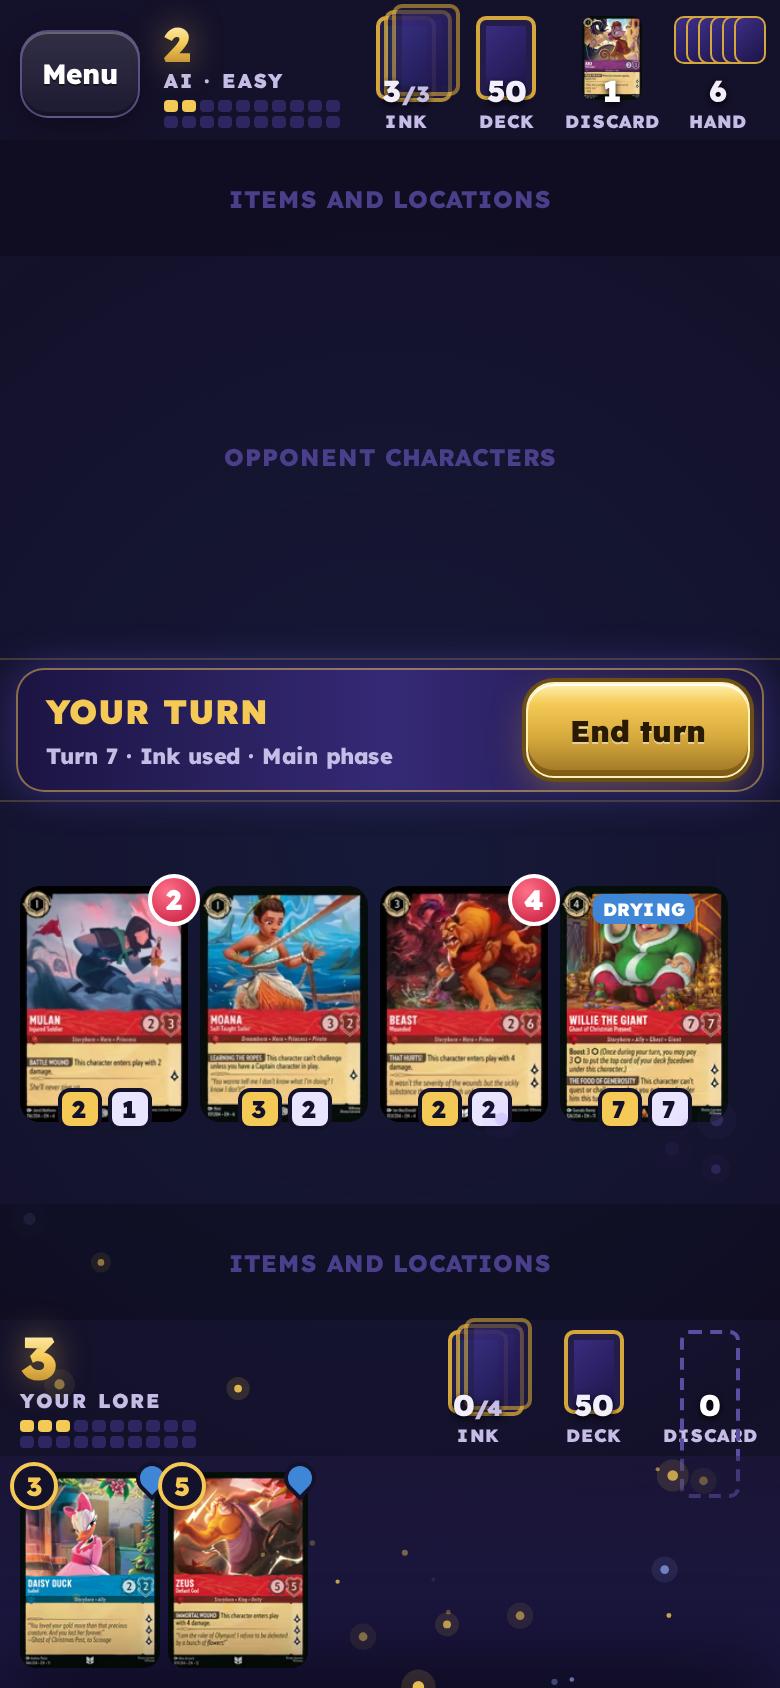
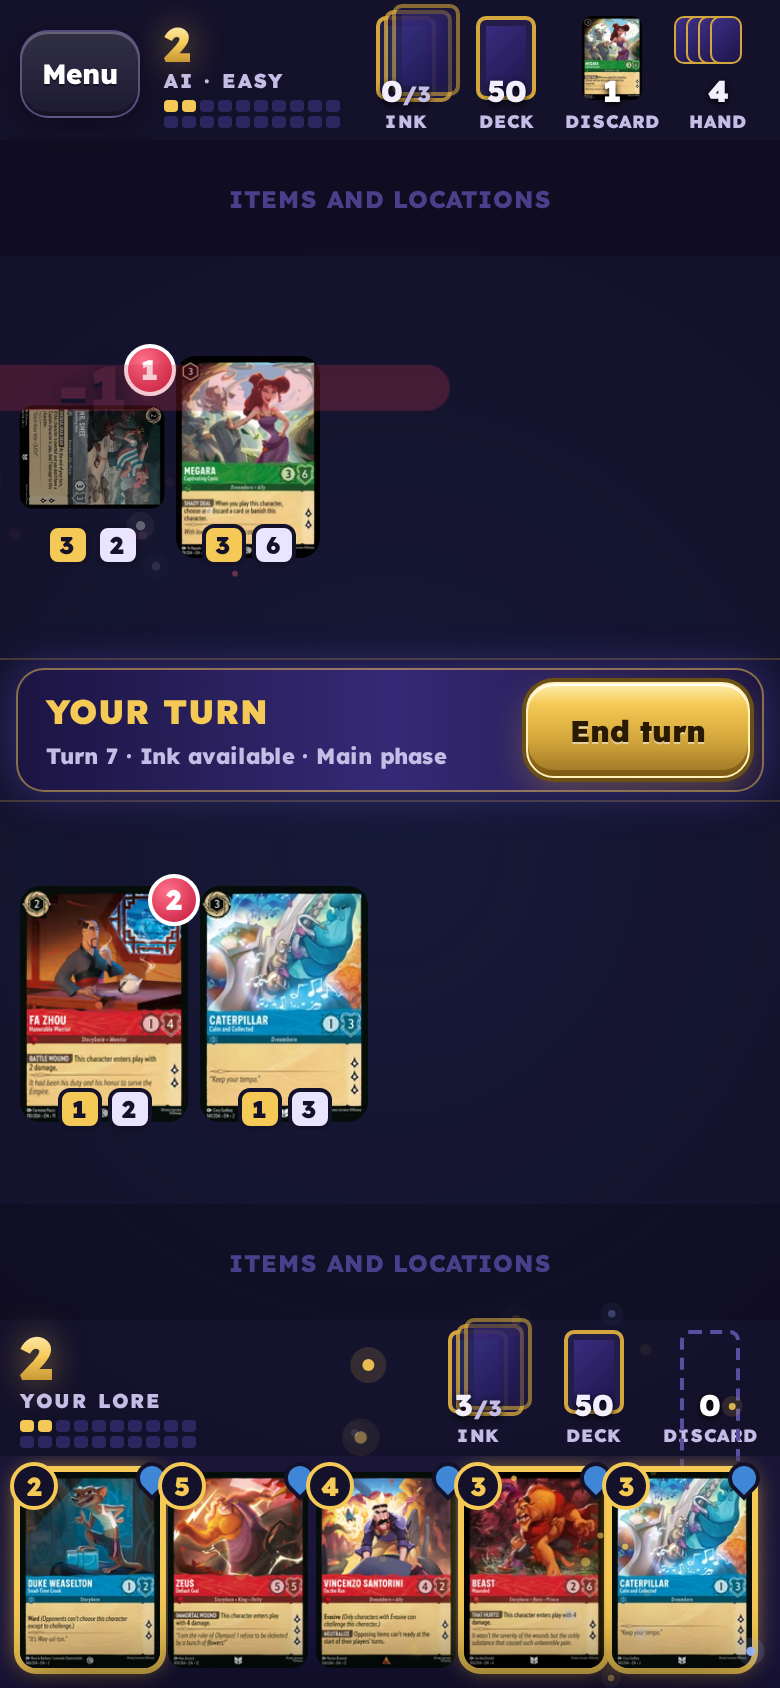
Fix lingering banish ghost elements: tracked, timeout fallback, cleared on re-render/game end/rematch

diff --git a/js/play.js b/js/play.js
@@ -38,7 +38,7 @@ function deckFromSel(sel){
 }
 /* ---------- rendering ---------- */
 function bar(title,right=""){return`<div class="pbar"><button class="pbtn ghost" data-a="quit">${S.screen==="menu"?"Close":"Back"}</button><div class="ptitle">${esc(title)}</div>${right}</div>`}
-function render(){if(window.FX)FX.mode(S.screen==="board"?"board":"tracker");
+function render(){clearFx();if(window.FX)FX.mode(S.screen==="board"?"board":"tracker");
   if(!pool){root.innerHTML=bar("Play")+`<p class="empty">Loading all cards...</p>`;return}
   ({menu:renderMenu,builder:renderBuilder,mull:renderMull,board:renderBoard,coin:renderCoin}[S.screen])();
 }
@@ -165,7 +165,7 @@ function renderBoard(){
      return`<button class="hc ${pl?"play":""} ${S.sel===h.uid?"sel":""} ${S.tm?"dim":""}" data-a="tile" data-uid="${h.uid}"><img src="${esc(h.card.img)}" alt="${esc(h.card.full)}"><span class="mcost">${E.costOf(st,0,h.card)}</span>${h.card.inkable?`<span class="inkable" title="Inkable"></span>`:""}${badge(h.card)}${ik&&!pl?"":""}</button>`}).join("")}</div></div>
    <div id="toast" class="toast"></div></div>
    ${st.pending&&st.pending.pi===0&&st.winner==null?discardPrompt():""}${st.winner!=null?endScreen():""}`;
-  animate(rects);if(window.FX)FX.mode("board");tickLore();if(st.winner!=null&&!S.celebrated){S.celebrated=true;if(st.winner===0&&window.FX)setTimeout(FX.celebrate,300)}if(st.winner==null)S.celebrated=false;
+  if(st.winner!=null){clearFx();st.events=[]}else animate(rects);if(window.FX)FX.mode("board");tickLore();if(st.winner!=null&&!S.celebrated){S.celebrated=true;if(st.winner===0&&window.FX)setTimeout(FX.celebrate,300)}if(st.winner==null)S.celebrated=false;
   if(SET.tips&&!S.tipShown&&st.winner==null){S.tipShown=true;setTimeout(()=>tip(0),400)}
 }
 function discardPrompt(){return pickerSheet()}
@@ -202,7 +202,8 @@ function endScreen(){const st=S.st,w=st.winner===0,s0=(st.stats||[{},{}])[0],s1=
 /* ---- animation & feedback ---- */
 function snapRects(){const m=new Map();root.querySelectorAll("[data-uid]").forEach(e=>{m.set(+e.dataset.uid,{r:e.getBoundingClientRect(),html:e.querySelector("img")?.outerHTML||""})});
   for(const id of["lore-0","lore-1","ink-0","ink-1","deck-0","deck-1","disc-0","disc-1"]){const e=document.getElementById(id);if(e)m.set(id,{r:e.getBoundingClientRect()})}return m}
-function ghost(r,html,cls){const g=document.createElement("div");g.className="ghost "+(cls||"");g.style.cssText=`left:${r.left}px;top:${r.top}px;width:${r.width}px;height:${r.height}px`;g.innerHTML=html;document.body.appendChild(g);return g}
+function ghost(r,html,cls){const g=document.createElement("div");g.className="ghost "+(cls||"");g.style.cssText=`left:${r.left}px;top:${r.top}px;width:${r.width}px;height:${r.height}px`;g.innerHTML=html;document.body.appendChild(g);GH.add(g);const kill=()=>{g.remove();GH.delete(g)};g.addEventListener("animationend",kill);g._t=setTimeout(kill,2500);return g}
+const GH=new Set();function clearFx(){for(const g of GH){clearTimeout(g._t);g.getAnimations&&g.getAnimations().forEach(a=>a.cancel());g.remove()}GH.clear();document.querySelectorAll(".ghost,.ftext").forEach(x=>x.remove())}
 function floatText(r,text,cls){const g=document.createElement("div");g.className="ftext "+cls;g.textContent=text;g.style.left=(r.left+r.width/2)+"px";g.style.top=(r.top+r.height/3)+"px";document.body.appendChild(g);setTimeout(()=>g.remove(),1300);return g}
 const elOf=u=>root.querySelector(`[data-uid="${u}"]`),rectOf=(m,u)=>m.get(u)?.r||elOf(u)?.getBoundingClientRect();
 const fxp=(el,o)=>{if(window.FX&&el)FX.at(el,o)};

diff --git a/index.html b/index.html
@@ -3,7 +3,7 @@
 <meta http-equiv="Cache-Control" content="no-cache, no-store, must-revalidate"><meta http-equiv="Pragma" content="no-cache"><meta http-equiv="Expires" content="0">
 <meta name="theme-color" content="#241d4a"><title>Liam's Lorcana Collection</title>
 <link rel="preconnect" href="https://fonts.googleapis.com"><link href="https://fonts.googleapis.com/css2?family=Lexend:wght@600;800;900&display=swap" rel="stylesheet">
-<link rel="stylesheet" href="./css/style.css?v=20261012040210"></head><body>
+<link rel="stylesheet" href="./css/style.css?v=20261012041448"></head><body>
 <header id="top">
  <div class="row"><button id="back" class="icon-btn" aria-label="Back to sets" hidden><svg viewBox="0 0 24 24" aria-hidden="true"><path d="M15 5l-7 7 7 7" fill="none" stroke="currentColor" stroke-width="3" stroke-linecap="round" stroke-linejoin="round"/></svg><span>Back</span></button>
   <h1 id="title"><span class="crest" aria-hidden="true"></span>LIAM'S LORCANA</h1>
@@ -15,4 +15,4 @@
 <div id="scrim" hidden></div>
 <section id="sheet" class="sheet" aria-hidden="true"><div class="grab"></div><div id="sheet-body"></div></section>
 <input type="file" id="import" accept=".json,application/json" hidden>
-<script>window.APP_VERSION="20261012040210"</script><script src="./data/snapshot.js?v=20261012040210"></script><script src="./js/fx.js?v=20261012040210"></script><script src="./js/engine.js?v=20261012040210"></script><script src="./js/play.js?v=20261012040210"></script><script src="./js/app.js?v=20261012040210"></script></body></html>
+<script>window.APP_VERSION="20261012041448"</script><script src="./data/snapshot.js?v=20261012041448"></script><script src="./js/fx.js?v=20261012041448"></script><script src="./js/engine.js?v=20261012041448"></script><script src="./js/play.js?v=20261012041448"></script><script src="./js/app.js?v=20261012041448"></script></body></html>
